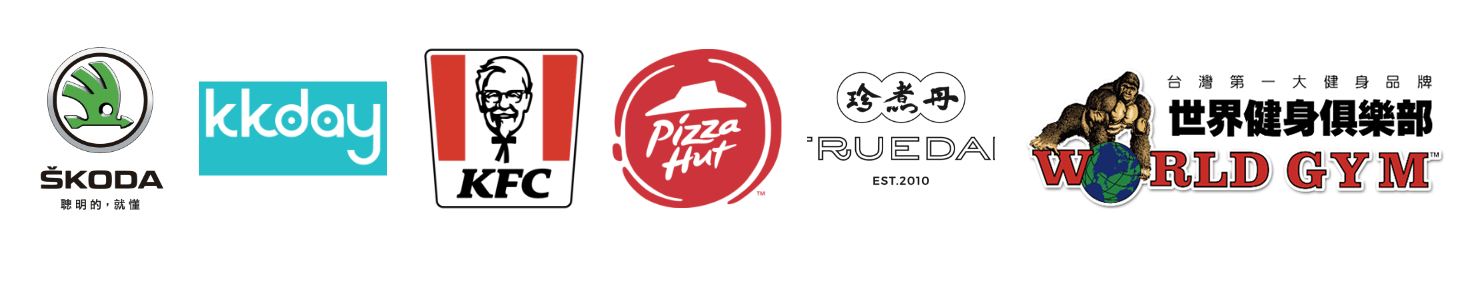
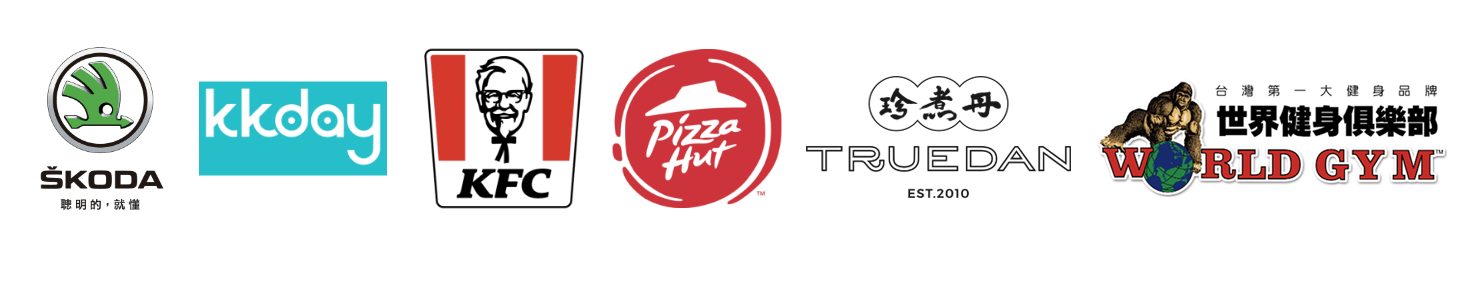
珍煮丹圖被切到

Changed region(s): [[0.5295, 0.2562, 0.9966, 0.7402]]

diff --git a/blesscard.html b/blesscard.html
@@ -525,7 +525,7 @@
       </ol>
       <p>珍煮丹優惠券</p>
       <ol class="noticeSecondContent">
-        <li>憑此折價券可至全台珍煮丹門市使用。</li>
+        <li>憑此折價券可至全台珍煮丹門市享有世界茶光譜系列單品折價10元。</li>
         <li>本折價券使用時間依全家便利商店官方活動公告為主，逾期、毀損或無法辨識則無效。</li>
         <li>本折價券恕不找零亦不得折換現金，不適用於（商品）服務禮券記載之規範。</li>
         <li>本券僅限只用一次折抵單杯飲品，使用後須繳回。</li>
